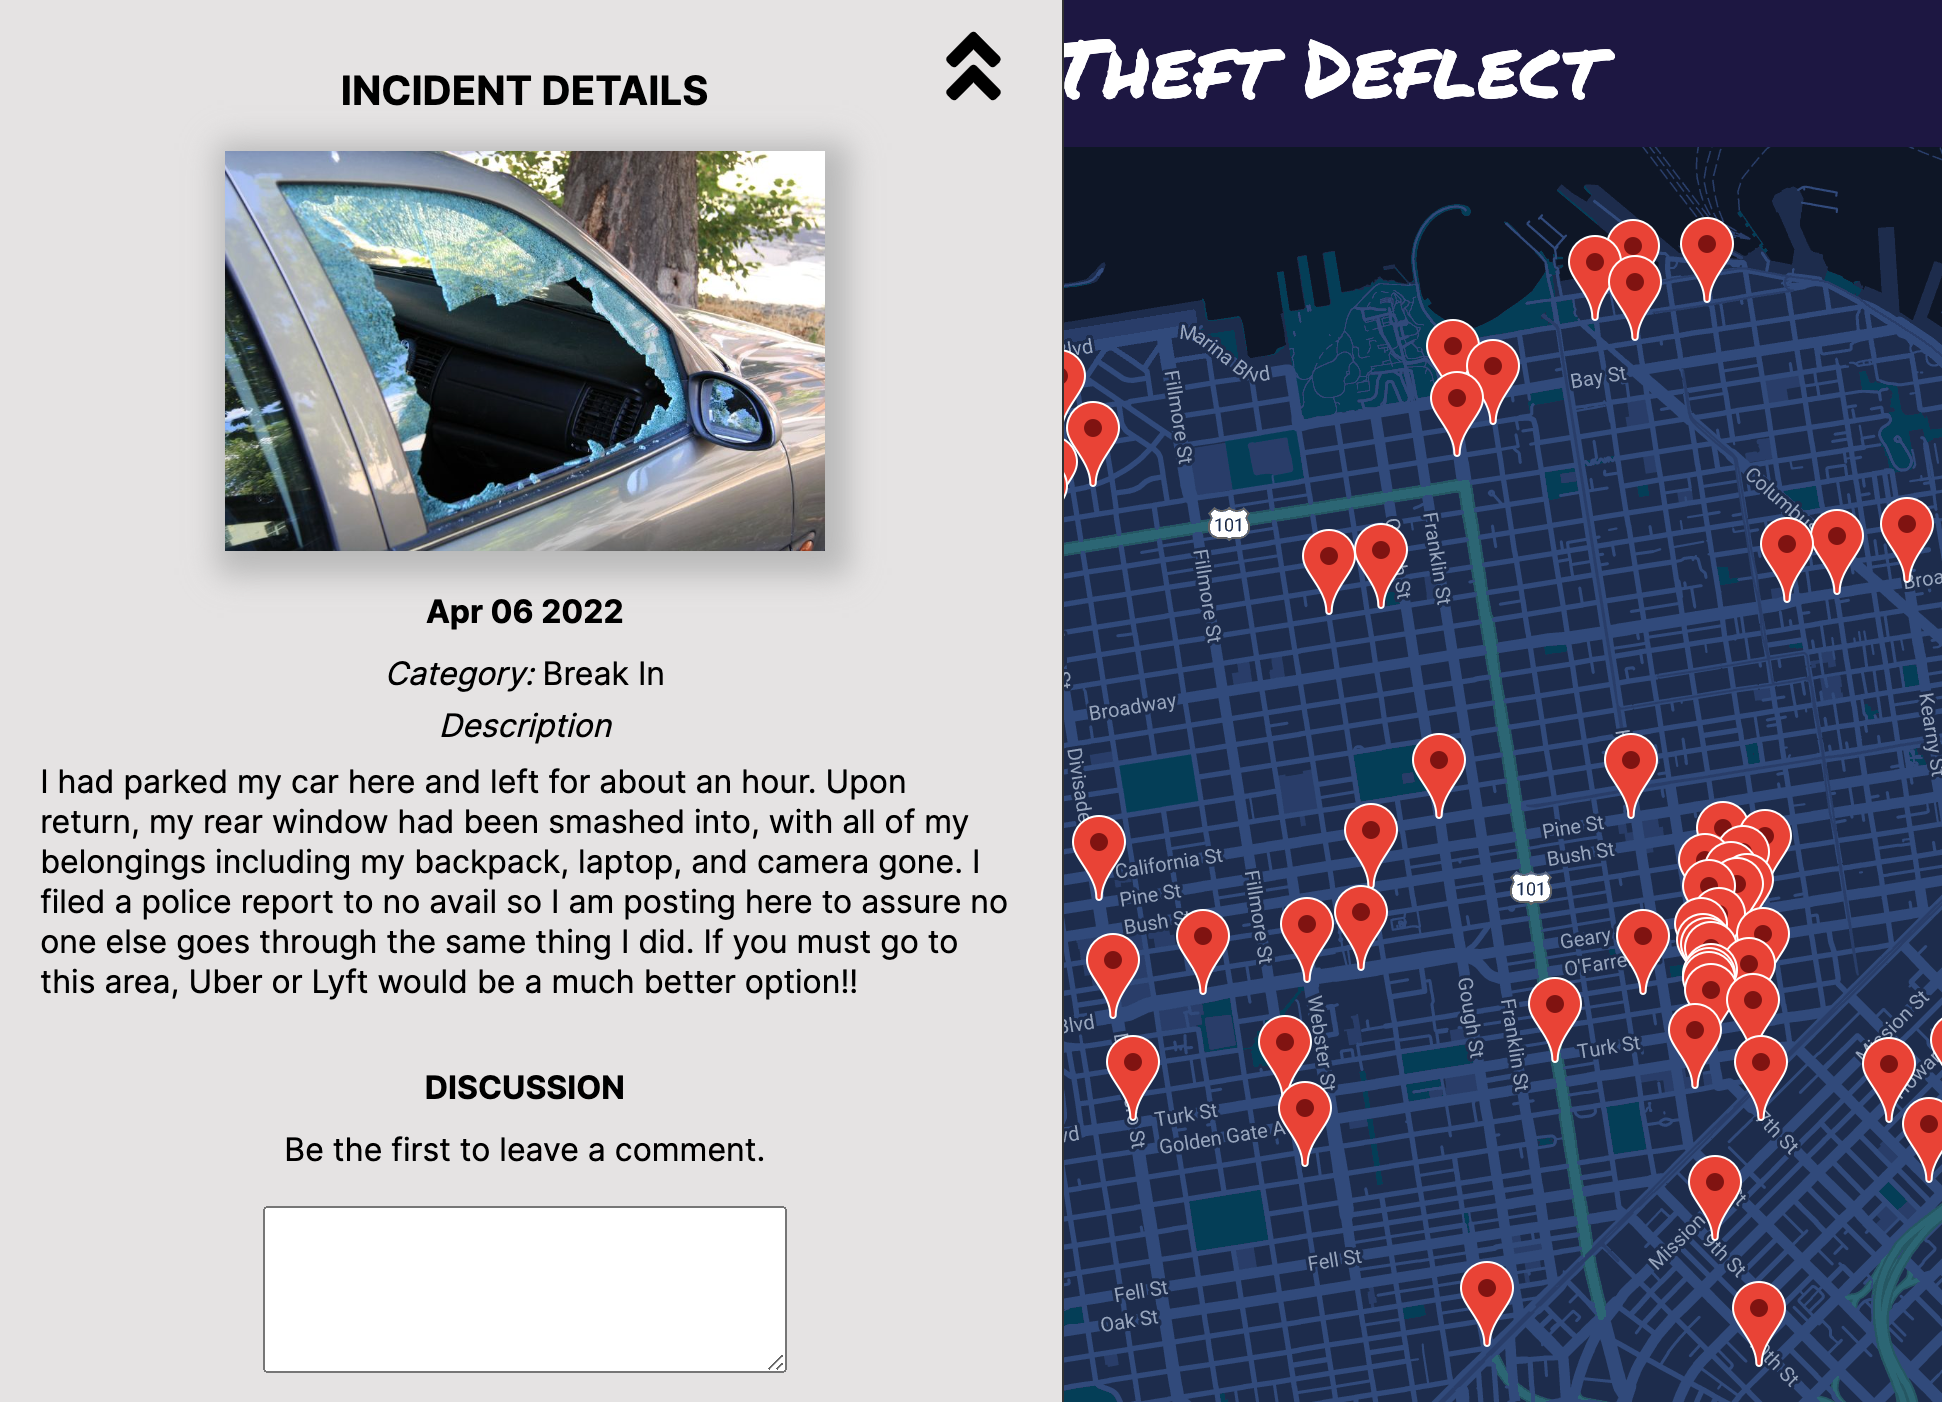
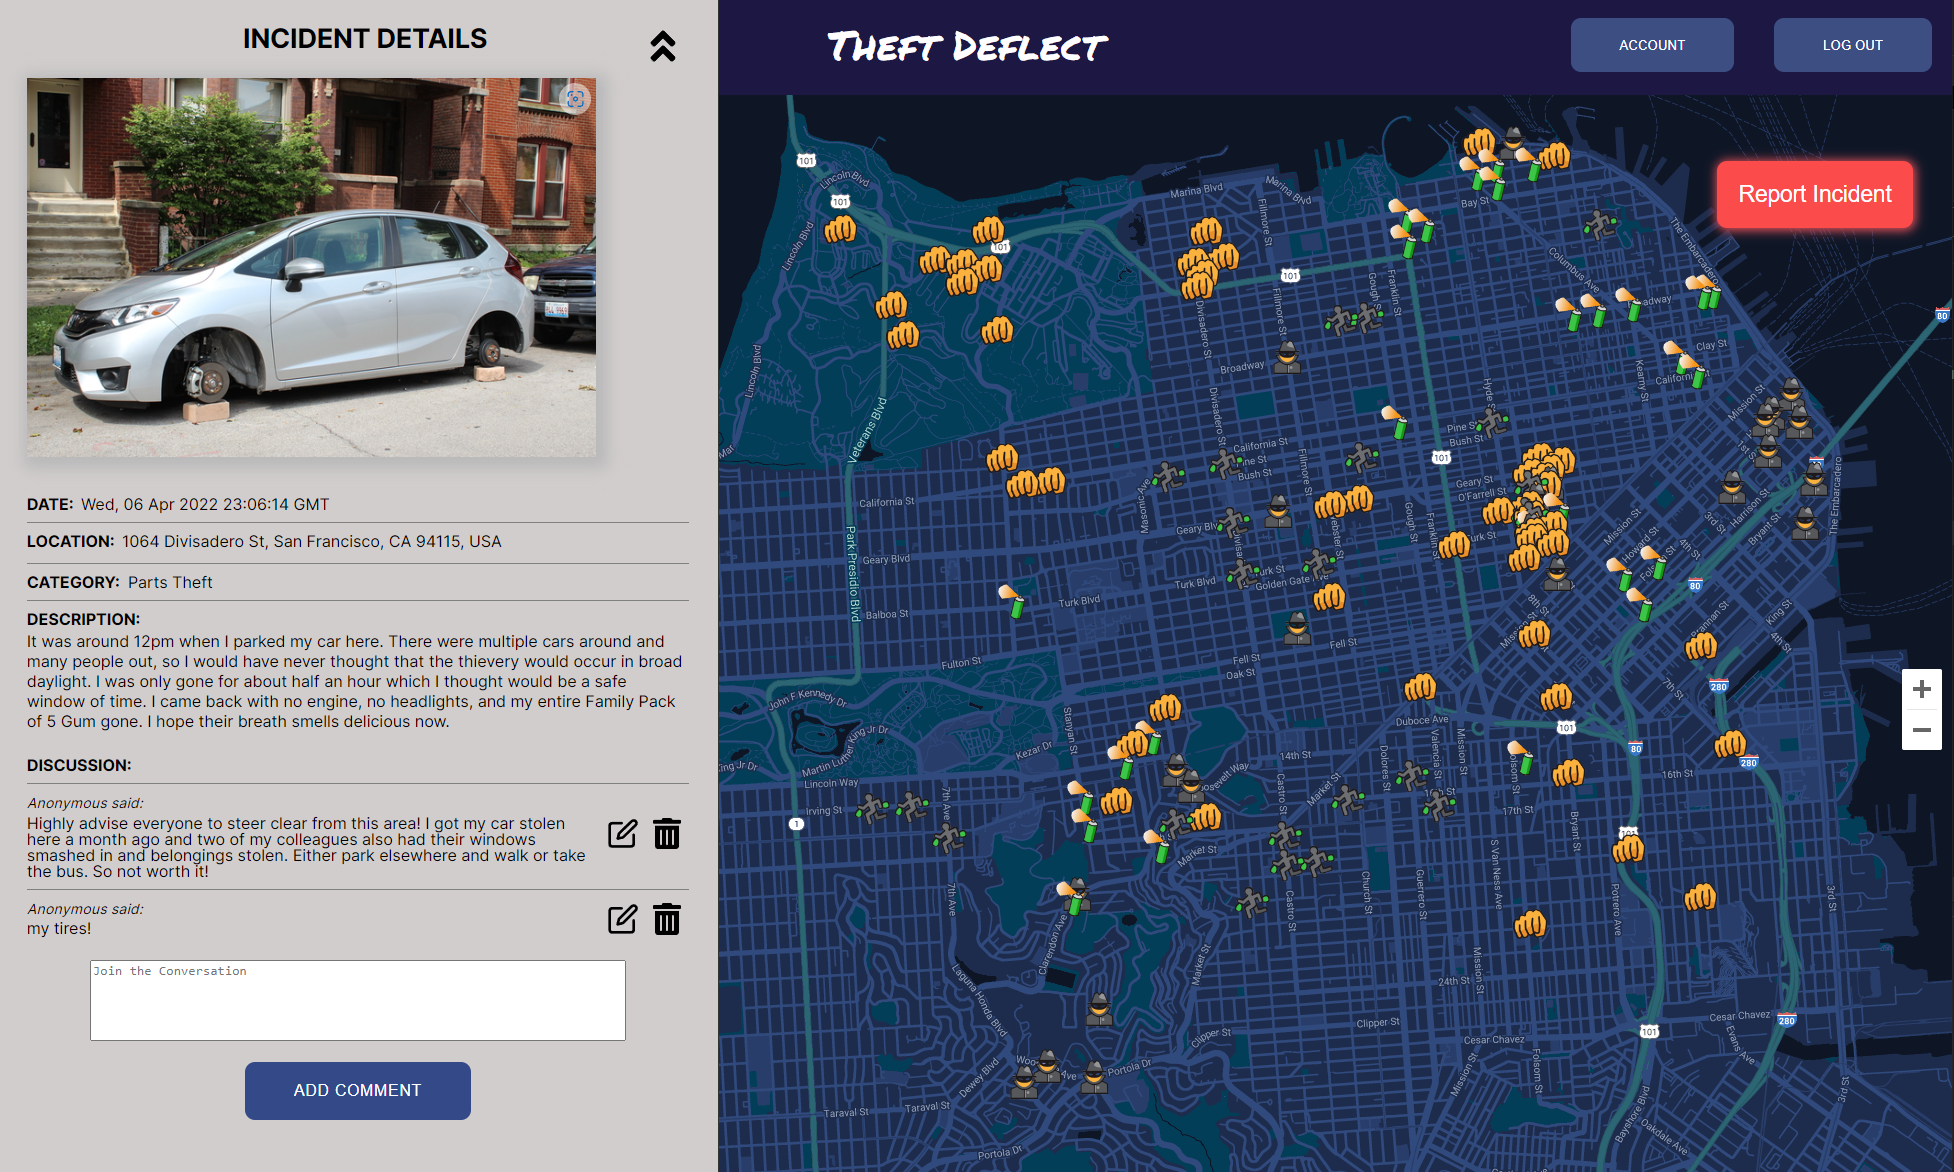
account, pin show, scrolling, commments, styling

diff --git a/frontend/src/components/pin/pin_show.jsx b/frontend/src/components/pin/pin_show.jsx
@@ -9,7 +9,6 @@ import './pin.css';
 class PinShow extends React.Component {
   constructor(props) {
     super(props);
-    this.showContainer = React.createRef();
 
     this.state = {
       editMode: false,
@@ -18,23 +17,38 @@ class PinShow extends React.Component {
       long: this.props.pin.long,
       category: this.props.pin.category,
       description: this.props.pin.description,
+      location: ""
     }
 
     this.changeCategory = this.changeCategory.bind(this);
     this.handleSubmit = this.handleSubmit.bind(this);
     this.closeShow = this.closeShow.bind(this);
+    this.fetchLocation = this.fetchLocation.bind(this);
   }
 
   componentDidMount() {
     this.props.fetchPin(this.props.pin._id);
+    this.fetchLocation();
   }
 
   componentDidUpdate(prevProps) {
     if (prevProps.pin._id !== this.props.pin._id) {
-      this.props.fetchPin(this.props.pin._id)
-      this.setState({description: this.props.pin.description})
-      this.setState({category: this.props.pin.category})
+      this.fetchLocation();
+      this.props.fetchPin(this.props.pin._id);
+      this.setState({description: this.props.pin.description});
+      this.setState({category: this.props.pin.category});
     }
+  }
+
+  fetchLocation(){
+    fetch(`https://maps.googleapis.com/maps/api/geocode/json?latlng=${this.props.pin.lat},${this.props.pin.long}&key=AIzaSyDhm27MhVA89tLn0zM3WdLTl06Yt3FZZWI`)
+      .then(res => res.json())
+      .then(data => {
+        console.log(data)
+        if (data.results.length > 1){
+          this.setState({ location: data.results[0].formatted_address})
+        }
+      })
   }
 
   showDate() {
@@ -117,9 +131,11 @@ class PinShow extends React.Component {
 
   render() {
     const pin = this.props.pin;
+
+    window.scrollTo({ top: 0 })
     
     return (
-      <div className="pin-show-container" ref={this.showContainer}>
+      <div className="pin-show-container">
         <button className="close-btn" onClick={this.closeShow}><FaAngleDoubleUp /></button>
         <div id="pin-show-header">INCIDENT DETAILS</div>
         {this.categoryImage()}
@@ -134,8 +150,13 @@ class PinShow extends React.Component {
         </div>
 
         <div id="date-container" className='show-section'>
-          <div id="date-title">DATE:&nbsp;</div>
+          <div id="date-title">DATE:&nbsp;&nbsp;</div>
           <div id="show-date">{this.showDate()}</div>
+        </div>
+
+        <div id="location-container" className='show-section'>
+          <div id="location-title">LOCATION:&nbsp;&nbsp;</div>
+          <div id="location-address">{this.state.location}</div>
         </div>
 
         {this.state.editMode && (
@@ -157,7 +178,7 @@ class PinShow extends React.Component {
 
         {!this.state.editMode && (
           <div>
-            <div className='show-section'><span className="show-category">Category:</span> {this.state.category}</div>
+            <div className='show-section'><span className="show-category">Category:&nbsp;</span> {this.state.category}</div>
             <div>
               <div className="show-category">Description:</div>
               <div id="pin-description">{this.state.description}</div>

diff --git a/frontend/src/components/nav/account.jsx b/frontend/src/components/nav/account.jsx
@@ -12,8 +12,7 @@ class Account extends React.Component {
   }
 
   getDate(objectId) {
-    let pinDate = new Date(parseInt(objectId.substring(0, 8), 16) * 1000);
-    return pinDate.toString().slice(3, 15);
+    return new Date(parseInt(objectId.substring(0, 8), 16) * 1000).toUTCString();
   }
 
   showUserPins() {
@@ -30,10 +29,21 @@ class Account extends React.Component {
     } else {
       return userPins.map((pin, i) => (
         <div key={i} className="report">
-          <div id='report-date'>{this.getDate(pin._id)}</div>
-          <div id='report-category'>{pin.category}</div>
-          <div id="report-description">{pin.description}</div>
-          <button className="account-btn" onClick={() => this.props.destroyPin(pin._id)}><FaTrashAlt /></button>
+          <div id='report-date-container'>
+            <div id='report-date-title'>Date:&nbsp;</div>
+            <div id='report-date'>{this.getDate(pin._id)}</div>
+          </div>
+          <div id='report-category-container'>
+            <div id='report-category-title'>Category:&nbsp;</div>
+            <div>{pin.category}</div>
+          </div>
+          <div id="report-description-container">
+            <div id='report-description-title'>Description:&nbsp;</div>
+            <div id='report-description'>{pin.description}</div>
+          </div>
+          <div className="account-btn-container">  
+            <button className="account-btn" onClick={() => this.props.destroyPin(pin._id)}><FaTrashAlt /></button>
+          </div>
         </div>
       ))
     }
@@ -43,7 +53,7 @@ class Account extends React.Component {
     if (!this.props.pins) return null;
     return (
       <div className='account-show'>
-        <div id="account-header">{this.props.currentUser.username}: Your Reports</div>
+        <div id="account-header">Hi {this.props.currentUser.username}, Here Are Your Reports</div>
         <div className="reports-grid">{this.showUserPins()}</div>
       </div>
     )

diff --git a/frontend/src/components/map/map.jsx b/frontend/src/components/map/map.jsx
@@ -8,6 +8,7 @@ class Map extends React.Component {
     constructor(props) {
         super(props);
         this.logContainer = React.createRef();
+        this.pinShow = React.createRef();
         this.markers = [];
         this.heatMarkers = [];
         this.zoom = 13;
@@ -263,9 +264,8 @@ class Map extends React.Component {
         if (this.state.clickedPinId) {
             for(let i = 0; i < this.props.pins.length; i++){
                 if (this.props.pins[i]._id === this.state.clickedPinId){
-                    clickedPin = <div>
-                        <PinShowContainer pin={this.props.pins[i]} />
-                    </div>
+                    clickedPin = <PinShowContainer pin={this.props.pins[i]} />
+                    this.pinShow.current.scrollTo(0,0)
                     break;
                 }
             }
@@ -307,7 +307,7 @@ class Map extends React.Component {
                 </div> */}
                 {incidentButton}
                 <div id="map" />
-                <div id="pin-show-id">{clickedPin}</div>
+                <div id="pin-show-id" ref={this.pinShow}>{clickedPin}</div>
             </div>
         )
     }

diff --git a/frontend/src/components/nav/account.css b/frontend/src/components/nav/account.css
@@ -5,6 +5,10 @@
   font-size: 5vh;
 }
 
+.account-btn-container {
+  text-align: center;
+}
+
 #delete-icon {
   width: 30px;
   height: 35px;
@@ -15,7 +19,6 @@
   grid-template-columns: repeat(3, 1fr);
   grid-row-gap: 4%;
   grid-column-gap: 2%;
-  text-align: center;
   margin-left: 5%;
   margin-right: 5%;
   padding-bottom: 15vh;
@@ -39,19 +42,40 @@
   text-align: left;
 }
 
-#report-date {
-  font-size: 150%;
-  font-weight: 700;
-  margin-top: 3%;
+#report-date-container, 
+#report-category-container,
+#report-description-container {
+  margin-top: 6px;
+  margin-bottom: 6px;
+}
+
+#report-date-container, #report-category-container {
+  display: flex;
+  align-items: center;
+}
+
+#report-description-container {
+  display: flex;
+  flex-direction: column;
+}
+
+#report-description-title {
+  margin-bottom: 4px;
+}
+
+#report-description {
+  line-height: 1.2em;
+}
+
+#report-date-title, #report-category-title,
+#report-description-title {
+  font-size: 120%;
+  font-weight: 600;
 }
 
 #report-category {
   font-size: 120%;
   margin-top: 3%;
-}
-
-#report-description {
-  margin-top: 4%;
 }
 
 #no-reports {

diff --git a/frontend/src/components/comments/comment_form.jsx b/frontend/src/components/comments/comment_form.jsx
@@ -28,7 +28,13 @@ class CommentForm extends React.Component {
       <div className="review-form">
         <form onSubmit={this.handleSubmit}>
           <div className='comments-textarea'>
-            <textarea type="text" value={this.state.text} onChange={this.updateText} rows="5" cols="30"></textarea>
+            <textarea 
+              type="text" 
+              value={this.state.text} 
+              onChange={this.updateText} 
+              rows="5" cols="30"
+              placeholder='Join the Conversation'
+            ></textarea>
           </div>
           <div className='add-comment-container'>
             <button className="add-comment" onClick={this.handleSubmit}>ADD COMMENT</button>

diff --git a/frontend/src/components/pin/pin.css b/frontend/src/components/pin/pin.css
@@ -35,7 +35,7 @@
     letter-spacing: 0.04em;
     word-wrap: break-word;
     resize: none;
-    font-size: 1.4em;
+    font-size: 1.2em;
 }
 
 .form-textarea:focus {
@@ -136,16 +136,16 @@
     margin-top: 4%;
 }
 
-#date-container {
+#date-container, #location-container {
     display: flex;
 }
 
-#date-title {
+#date-title, #location-title {
     font-weight: bold;
 }
 
-#show-date {
-    /* font-weight: bold; */
+#location-title {
+    margin-bottom: 4px;
 }
 
 #pin-description {
